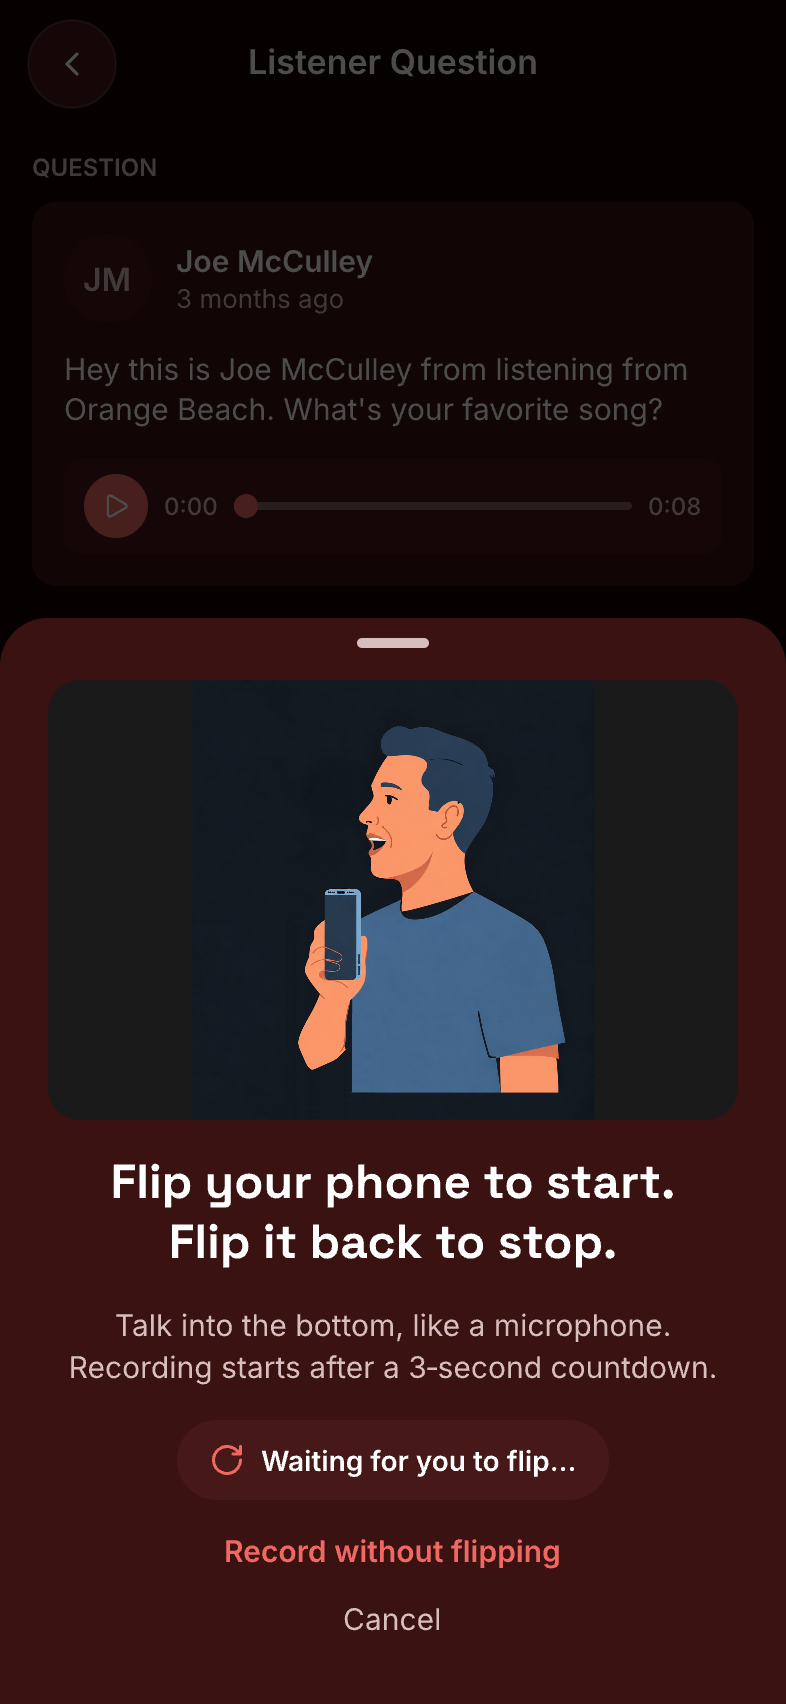
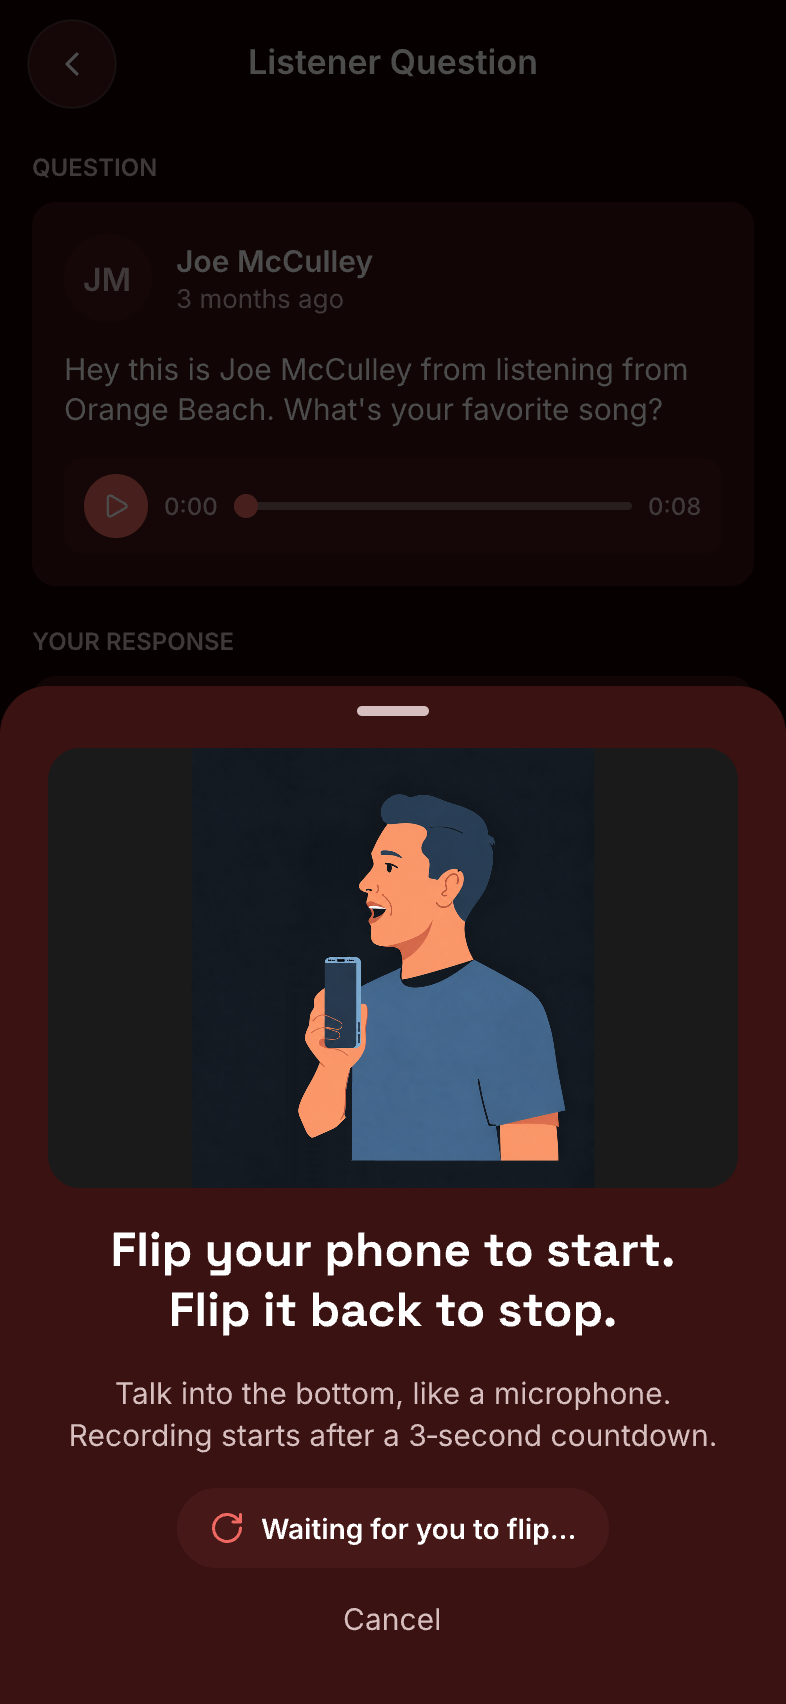
feature: remove the option to record without flipping
The flip prompt offered a "Record without flipping" link. Brian decided it
isn't needed: the prompt now only teaches the flip, with Cancel as the way
out.

The link was also the only escape when the phone gives no motion readings,
since the flip can never be detected. In that case recording now starts
upright, the same as today, instead of leaving the user on a prompt that
can't be completed. Page tests that wanted the prompt now feed an upright
reading instead of an empty motion stream.

Changed region(s): [[0.0, 0.3421, 1.0, 0.9331]]

diff --git a/PlayolaRadio/Views/Reusable Components/FlipToRecord/FlipToRecordModelTests.swift b/PlayolaRadio/Views/Reusable Components/FlipToRecord/FlipToRecordModelTests.swift
@@ -62,7 +62,7 @@ struct FlipToRecordModelTests {
   }
 
   @Test
-  func testPoseStreamEndingBeforeAnySampleShowsPrompt() async {
+  func testPoseStreamEndingBeforeAnySampleRecordsUpright() async {
     await withMainSerialExecutor {
       let harness = FlipHarness()
 
@@ -70,7 +70,23 @@ struct FlipToRecordModelTests {
       harness.poseInput.finish()
       await Task.megaYield()
 
-      expectNoDifference(harness.model.phase, .prompting)
+      expectNoDifference(harness.model.phase, .idle)
+      expectNoDifference(harness.events.value, ["start"])
+    }
+  }
+
+  @Test
+  func testPoseStreamEndingWhilePromptingRecordsUpright() async {
+    await withMainSerialExecutor {
+      let harness = FlipHarness()
+      await harness.model.recordTapped()
+      await harness.send(.upright)
+
+      harness.poseInput.finish()
+      await Task.megaYield()
+
+      expectNoDifference(harness.model.phase, .idle)
+      expectNoDifference(harness.events.value, ["start"])
     }
   }
 
@@ -320,34 +336,17 @@ struct FlipToRecordModelTests {
   }
 
   @Test
-  func testRecordWithoutFlippingStartsUpright() async {
-    await withMainSerialExecutor {
-      let harness = FlipHarness()
-      await harness.model.recordTapped()
-      await harness.send(.upright)
-
-      await harness.model.recordWithoutFlippingTapped()
-      await harness.send(.upsideDown)
-      await harness.clock.advance(by: .seconds(5))
-
-      expectNoDifference(harness.model.phase, .idle)
-      expectNoDifference(harness.events.value, ["start"])
-    }
-  }
-
-  @Test
-  func testRecordTapWhileStartingWithoutFlippingIsIgnored() async {
+  func testRecordTapWhileStartingWithoutMotionIsIgnored() async {
     await withMainSerialExecutor {
       let (gate, openGate) = AsyncStream<Void>.makeStream()
       let harness = FlipHarness(startGate: gate)
       await harness.model.recordTapped()
-      await harness.send(.upright)
-
-      let tap = Task { await harness.model.recordWithoutFlippingTapped() }
+      harness.poseInput.finish()
       await Task.megaYield()
+
       await harness.model.recordTapped()
       openGate.yield()
-      await tap.value
+      await Task.megaYield()
 
       expectNoDifference(harness.model.phase, .idle)
       expectNoDifference(harness.updatesCalls.value, 1)

diff --git a/PlayolaRadio/Views/Reusable Components/FlipToRecord/FlipToRecordModel.swift b/PlayolaRadio/Views/Reusable Components/FlipToRecord/FlipToRecordModel.swift
@@ -83,13 +83,6 @@ final class FlipToRecordModel {
     watchPose()
   }
 
-  func recordWithoutFlippingTapped() async {
-    guard phase == .prompting else { return }
-    await recordingStopped()
-    phase = .checkingPose
-    await startUpright(take: take)
-  }
-
   func cancelTapped() async {
     await recordingStopped()
   }
@@ -125,7 +118,6 @@ final class FlipToRecordModel {
     "Talk into the bottom, like a microphone. Recording starts after a 3‑second countdown."
   }
   var waitingLabel: String { "Waiting for you to flip…" }
-  var recordWithoutFlippingTitle: String { "Record without flipping" }
   var cancelTitle: String { "Cancel" }
   var countdownLabel: String { "Recording in" }
   var countdownCancelHint: String { "Turn your phone back over to cancel." }
@@ -166,13 +158,18 @@ final class FlipToRecordModel {
         self?.poseChanged(pose)
       }
       guard !Task.isCancelled else { return }
-      self?.poseStreamEnded()
+      await self?.poseStreamEnded()
     }
   }
 
-  private func poseStreamEnded() {
-    guard phase == .checkingPose else { return }
-    phase = .prompting
+  /// Without motion readings the flip can never be detected, so record upright instead.
+  private func poseStreamEnded() async {
+    guard phase == .checkingPose || phase == .prompting else { return }
+    poseTask = nil
+    flipTimer?.cancel()
+    flipTimer = nil
+    phase = .checkingPose
+    await startUpright(take: take)
   }
 
   private func poseChanged(_ pose: DevicePose) {

diff --git a/design/features/flip-to-record/exports/flip-to-record.css.html b/design/features/flip-to-record/exports/flip-to-record.css.html
@@ -440,12 +440,6 @@
               </div>
             </div>
             <div
-              data-pencil-name="Record Without Flipping"
-              style="box-sizing: border-box; color: #EF6962; font-family: Inter, system-ui, sans-serif; font-size: 15px; font-style: normal; font-weight: 600; letter-spacing: 0px; line-height: normal; text-align: left; white-space: nowrap"
-            >
-              Record without flipping
-            </div>
-            <div
               data-pencil-name="Cancel"
               style="box-sizing: border-box; color: #D7BFBF; font-family: Inter, system-ui, sans-serif; font-size: 15px; font-style: normal; font-weight: 400; letter-spacing: 0px; line-height: normal; text-align: left; white-space: nowrap"
             >

diff --git a/PlayolaRadio/Views/Reusable Components/FlipToRecord/FlipToRecordOverlay.swift b/PlayolaRadio/Views/Reusable Components/FlipToRecord/FlipToRecordOverlay.swift
@@ -74,19 +74,12 @@ struct FlipToRecordOverlay: View {
         .background(Color.elevatedSurface, in: Capsule())
         .padding(.top, 20)
 
-        Button(model.recordWithoutFlippingTitle) {
-          Task { await model.recordWithoutFlippingTapped() }
-        }
-        .font(.custom(FontNames.Inter_600_SemiBold, size: 16))
-        .foregroundStyle(Color.playolaRed)
-        .padding(.top, 22)
-
         Button(model.cancelTitle) {
           Task { await model.cancelTapped() }
         }
         .font(.custom(FontNames.Inter_400_Regular, size: 16))
         .foregroundStyle(Color.textSecondary)
-        .padding(.top, 18)
+        .padding(.top, 22)
         .padding(.bottom, 12)
       }
       .padding(.horizontal, 24)

diff --git a/design/features/flip-to-record/exports/flip-to-record.tailwind.html b/design/features/flip-to-record/exports/flip-to-record.tailwind.html
@@ -443,12 +443,6 @@
               </div>
             </div>
             <div
-              data-pencil-name="Record Without Flipping"
-              class="text-[15px]/[normal] box-border text-[#EF6962] font-[Inter,system-ui,sans-serif] font-semibold text-left [white-space:nowrap]"
-            >
-              Record without flipping
-            </div>
-            <div
               data-pencil-name="Cancel"
               class="text-[15px]/[normal] box-border text-[#D7BFBF] font-[Inter,system-ui,sans-serif] font-normal text-left [white-space:nowrap]"
             >

diff --git a/PlayolaRadio/Views/Pages/GiveawayCongratsSheet/GiveawayCongratsSheetModelTests.swift b/PlayolaRadio/Views/Pages/GiveawayCongratsSheet/GiveawayCongratsSheetModelTests.swift
@@ -457,7 +457,7 @@ struct GiveawayCongratsSheetModelTests {
         $0.audioRecorder.requestPermission = { true }
         $0.audioRecorder.usesExternalMicrophone = { false }
         $0.audioRecorder.startRecording = { startRecordingCalled.setValue(true) }
-        $0.devicePose.updates = { AsyncStream { $0.finish() } }
+        $0.devicePose.updates = { AsyncStream { $0.yield(.upright) } }
       } operation: {
         GiveawayCongratsSheetModel(action: actions["e1"]!, onClose: {})
       }

diff --git a/PlayolaRadio/Views/Pages/AskQuestionPage/AskQuestionPageTests.swift b/PlayolaRadio/Views/Pages/AskQuestionPage/AskQuestionPageTests.swift
@@ -148,7 +148,7 @@ struct AskQuestionPageTests {
         $0.audioRecorder.requestPermission = { true }
         $0.audioRecorder.usesExternalMicrophone = { false }
         $0.audioRecorder.startRecording = { startRecordingCalled.setValue(true) }
-        $0.devicePose.updates = { AsyncStream { $0.finish() } }
+        $0.devicePose.updates = { AsyncStream { $0.yield(.upright) } }
       } operation: {
         let model = AskQuestionPageModel(station: .mock)
 

diff --git a/PlayolaRadio/Views/Pages/ListenerQuestionDetailPage/ListenerQuestionDetailPageTests.swift b/PlayolaRadio/Views/Pages/ListenerQuestionDetailPage/ListenerQuestionDetailPageTests.swift
@@ -911,7 +911,7 @@ struct ListenerQuestionDetailPageTests {
       let model = withDependencies {
         $0.audioPlayer = .testValue
         $0.voicetrackUploadService = .testValue
-        $0.devicePose.updates = { AsyncStream { $0.finish() } }
+        $0.devicePose.updates = { AsyncStream { $0.yield(.upright) } }
         $0.audioRecorder = AudioRecorderClient(
           requestPermission: { true },
           prepareForRecording: {},

diff --git a/PlayolaRadio/Views/Pages/RecordPage/RecordPageTests.swift b/PlayolaRadio/Views/Pages/RecordPage/RecordPageTests.swift
@@ -168,7 +168,7 @@ struct RecordPageTests {
         $0.audioRecorder.requestPermission = { true }
         $0.audioRecorder.usesExternalMicrophone = { false }
         $0.audioRecorder.startRecording = { startRecordingCalled.setValue(true) }
-        $0.devicePose.updates = { AsyncStream { $0.finish() } }
+        $0.devicePose.updates = { AsyncStream { $0.yield(.upright) } }
       } operation: {
         let model = RecordPageModel()
 

diff --git a/PlayolaRadio/Views/Pages/RecordIntroPage/RecordIntroPageTests.swift b/PlayolaRadio/Views/Pages/RecordIntroPage/RecordIntroPageTests.swift
@@ -185,7 +185,7 @@ struct RecordIntroPageTests {
         $0.audioRecorder.requestPermission = { true }
         $0.audioRecorder.usesExternalMicrophone = { false }
         $0.audioRecorder.startRecording = { startRecordingCalled.setValue(true) }
-        $0.devicePose.updates = { AsyncStream { $0.finish() } }
+        $0.devicePose.updates = { AsyncStream { $0.yield(.upright) } }
       } operation: {
         let model = makeModel()
 

diff --git a/PlayolaRadio/Views/Pages/AskMeAnythingLivePage/AMAAnswerQuestionPageTests.swift b/PlayolaRadio/Views/Pages/AskMeAnythingLivePage/AMAAnswerQuestionPageTests.swift
@@ -407,7 +407,7 @@ struct AMAAnswerQuestionPageTests {
           startCalled.setValue(true)
           return RecordingSession(stop: { self.recordingURL }, cancel: {}, delete: { _ in })
         }
-        $0.devicePose.updates = { AsyncStream { $0.finish() } }
+        $0.devicePose.updates = { AsyncStream { $0.yield(.upright) } }
       } operation: {
         AMAAnswerQuestionPageModel(question: .mock, addToShow: noopAdd)
       }

diff --git a/PlayolaRadio/Views/Pages/RecordWithMultiStepPromptPage/RecordWithMultiStepPromptTests.swift b/PlayolaRadio/Views/Pages/RecordWithMultiStepPromptPage/RecordWithMultiStepPromptTests.swift
@@ -147,7 +147,7 @@ struct RecordWithMultiStepPromptTests {
     await withMainSerialExecutor {
       let model = withDependencies {
         $0.audioPlayer = .testValue
-        $0.devicePose.updates = { AsyncStream { $0.finish() } }
+        $0.devicePose.updates = { AsyncStream { $0.yield(.upright) } }
         $0.audioRecorder = AudioRecorderClient(
           requestPermission: { true },
           prepareForRecording: {},
